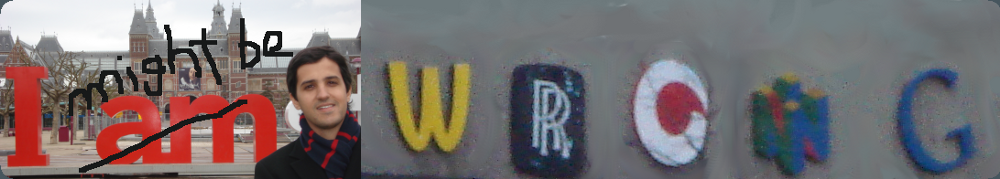
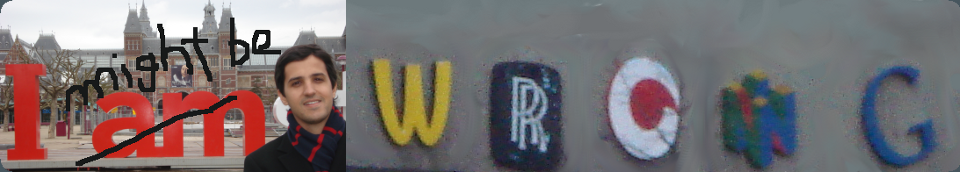
começando a colocar o layout no padrão blueprint

diff --git a/public/stylesheets/sass/default.sass b/public/stylesheets/sass/default.sass
@@ -49,10 +49,9 @@ body.main
   :text-align left
 
 .all
-  :margin-top 4em
+  :margin-top 0
   :margin-left auto
   :margin-right auto
-  :width 1000px
 
 .content-menu
   :background-color white
